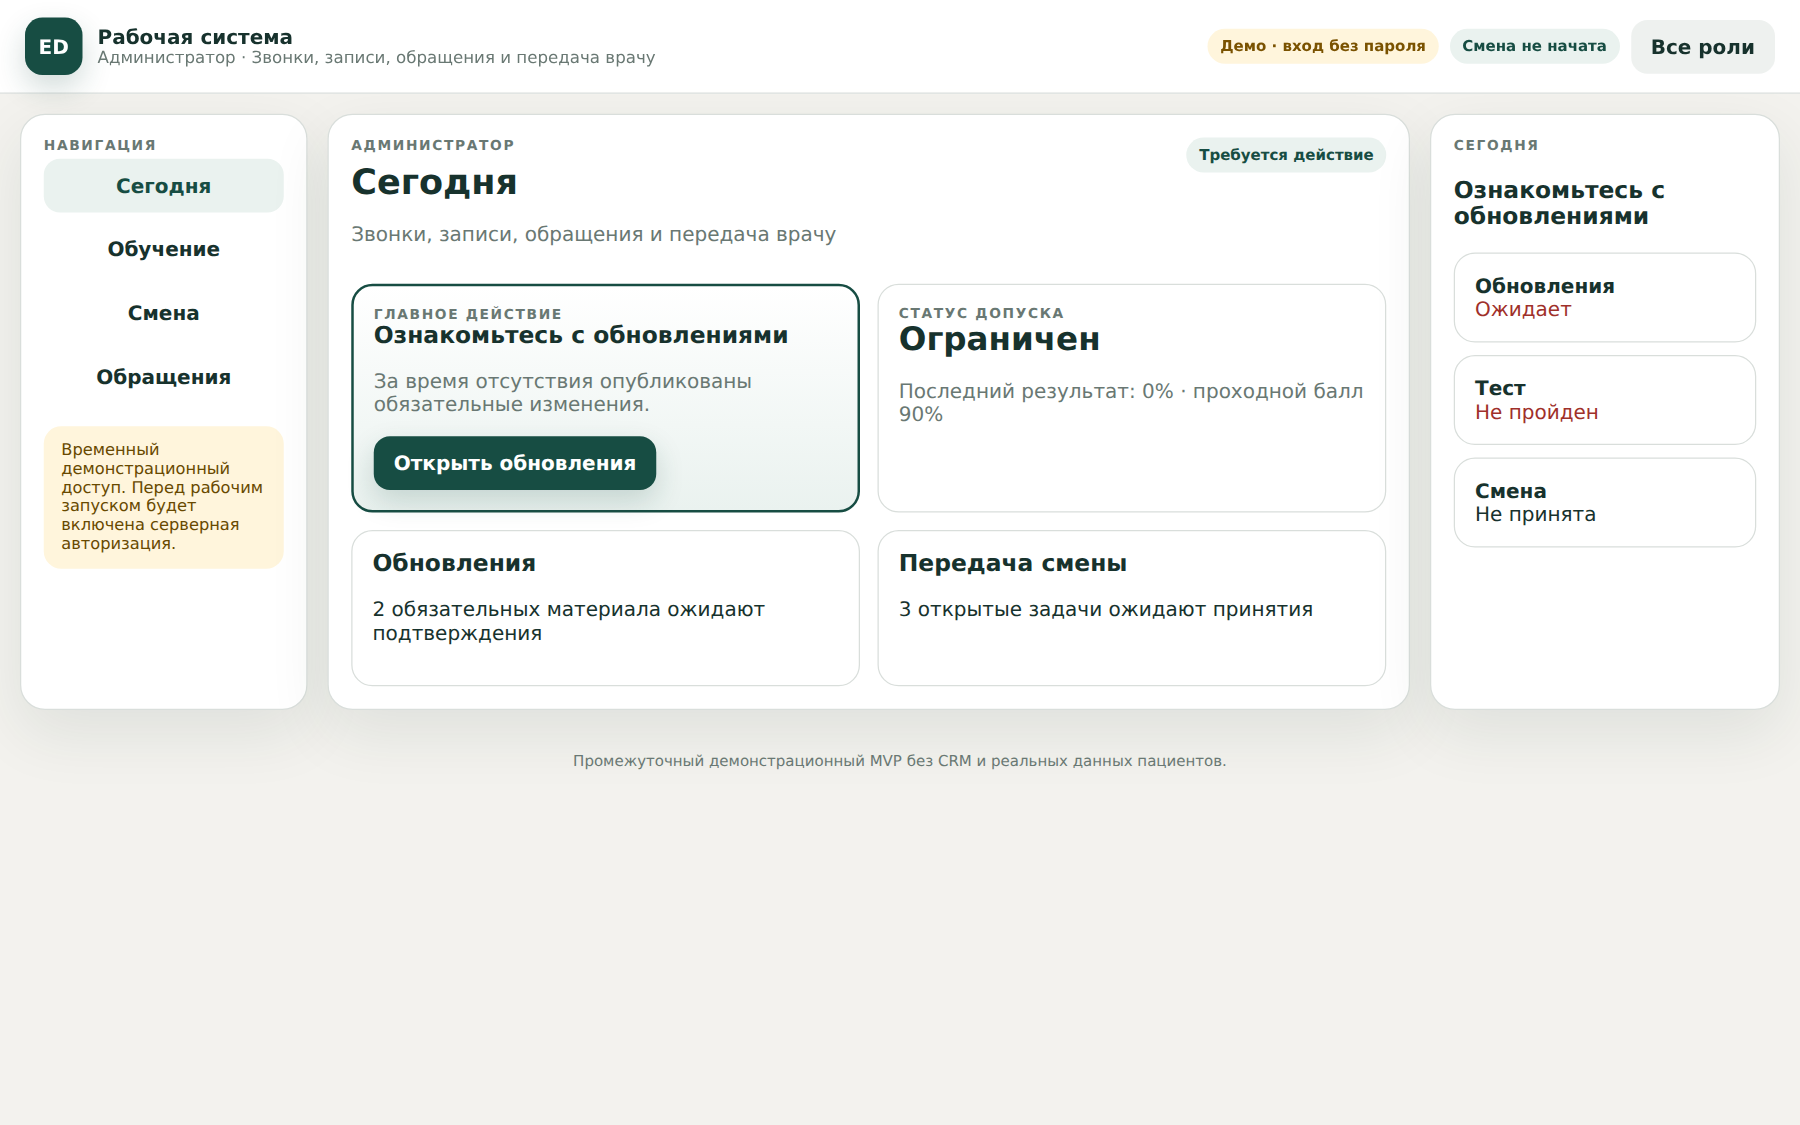
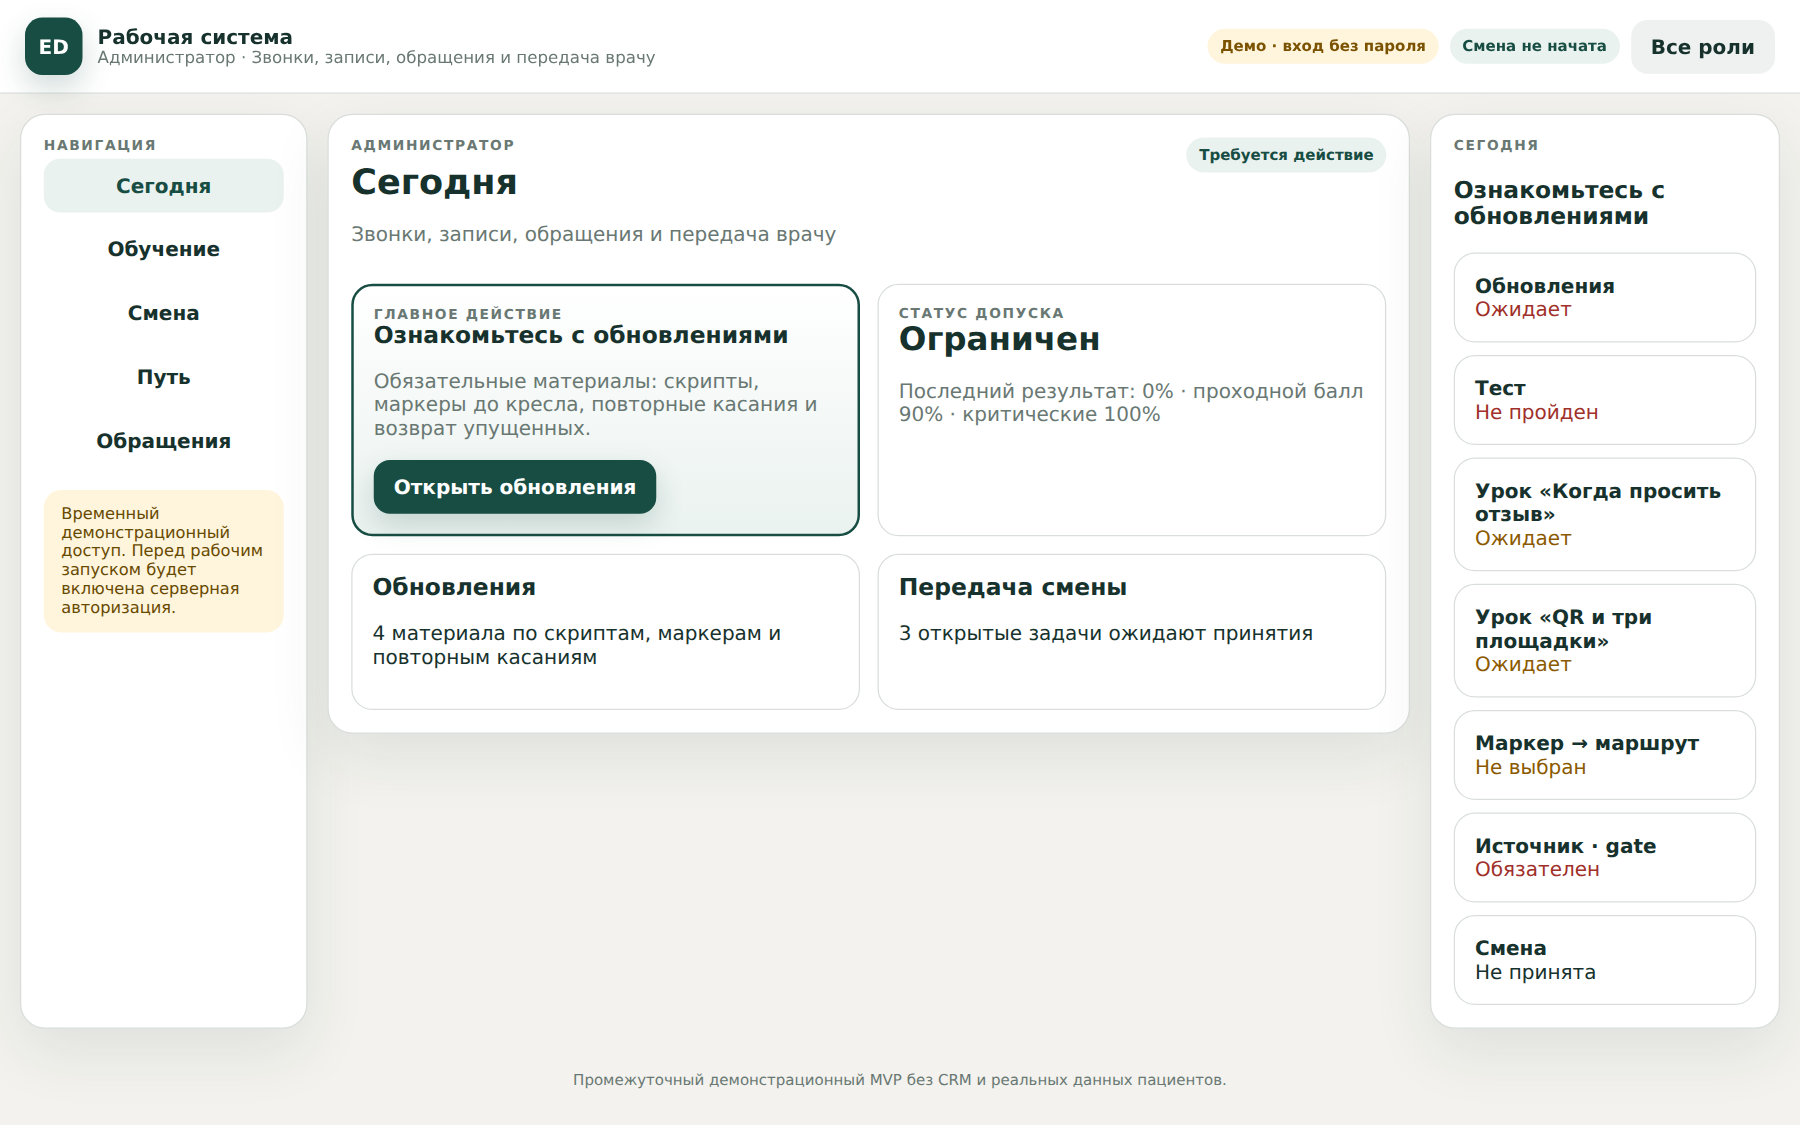
feat(raimov): IP.2 Atabek presentation — fresh shots + plan→screen table
Refresh live screenshots for closed month-1 plan points and add mapping table 1/4/5/7/8/10/11 with new path/scripts/markers captures.

diff --git a/site-raimovdental/public/assets/img/workspace/presentation/index.html b/site-raimovdental/public/assets/img/workspace/presentation/index.html
@@ -59,6 +59,14 @@
     .quote strong{display:block;margin-bottom:8px;opacity:.8;font-size:12px;letter-spacing:.12em;text-transform:uppercase}
     .footer{text-align:center;color:var(--muted);font-size:13px;margin-top:18px}
     .role-tag{display:inline-block;font-size:11px;font-weight:850;letter-spacing:.12em;text-transform:uppercase;color:var(--brand2);margin-bottom:8px}
+    .plan-table{width:100%;border-collapse:separate;border-spacing:0;font-size:14px;margin-top:18px}
+    .plan-table th,.plan-table td{padding:12px 14px;border-bottom:1px solid var(--line);text-align:left;vertical-align:top}
+    .plan-table th{font-size:11px;text-transform:uppercase;letter-spacing:.08em;color:var(--muted);background:var(--mint)}
+    .plan-table tr:last-child td{border-bottom:0}
+    .plan-table .pt{font-weight:900;color:var(--brand);white-space:nowrap}
+    .plan-table a{color:var(--brand2);font-weight:750;text-decoration:none}
+    .plan-table a:hover{text-decoration:underline}
+    .plan-table .shot-ref{color:var(--muted);font-size:12px;white-space:nowrap}
     @media(max-width:860px){
       .wrap{width:min(100% - 20px,var(--max))}.top{position:static}.pill{display:none}
       .grid2,.grid3,.grid4{grid-template-columns:1fr}.slide{border-radius:22px;padding:22px}
@@ -101,6 +109,7 @@
       <p class="ink-lede">Сначала смысл и результат, затем экраны по ролям, затем границы этапа и ссылки для самостоятельной проверки.</p>
       <nav class="toc" aria-label="Содержание">
         <a href="#result">Что это даёт клинике <span>результат</span></a>
+        <a href="#plan-map">Пункты плана месяца <span>1/4/5/7/8/10/11 → экран</span></a>
         <a href="#flow">Обязательный процесс <span>логика</span></a>
         <a href="#hub">Стартовая страница ролей <span>скриншот</span></a>
         <a href="#admin">Администратор <span>обучение · смена · обращения</span></a>
@@ -126,6 +135,67 @@
         <div class="card"><strong>Готовность к внедрению</strong><span class="muted">Логика и интерфейсы готовы к обсуждению; CRM, телефония и серверные пароли — следующий этап.</span></div>
       </div>
       <div class="note"><strong>Честно:</strong> сейчас это демонстрационный MVP. Он показывает управляемую логику и интерфейсы. Рост записей и выручки зависит от внедрения в ежедневную работу клиники, а не от факта наличия прототипа.</div>
+    </section>
+
+    <section class="slide" id="plan-map">
+      <p class="role-tag">Карта закрытия · месяц-1</p>
+      <h2>Пункты плана → экраны интерфейса</h2>
+      <p class="ink-lede">Семь пунктов месяца-1 закрыты контентом и логикой в workspace и модуле обращений. Скриншоты сняты с live-демо на raimovdental.com после деплоя content pack (август 2026).</p>
+      <table class="plan-table">
+        <thead>
+          <tr>
+            <th>Пункт</th>
+            <th>Что закрыто в UI</th>
+            <th>Экран / роль</th>
+            <th>Скрин</th>
+          </tr>
+        </thead>
+        <tbody>
+          <tr>
+            <td class="pt">1</td>
+            <td>Единый inbox обращений · SLA-статусы · карточка · чеклист аудита обработки заявок</td>
+            <td><a href="../admin/">Администратор</a> → <b>Обращения</b></td>
+            <td class="shot-ref"><a href="#admin">05-admin-work</a></td>
+          </tr>
+          <tr>
+            <td class="pt">4</td>
+            <td>Путь пациента P07–P11 · переключатель маршрутов виниры/импланты/орто · gate next action</td>
+            <td><a href="../admin/">Администратор</a> → <b>Путь</b></td>
+            <td class="shot-ref"><a href="#path">10-admin-path</a></td>
+          </tr>
+          <tr>
+            <td class="pt">5</td>
+            <td>Уроки «Когда просить отзыв» и «QR и три площадки» · чеклист после визита · контроль допуска</td>
+            <td><a href="../admin/">Администратор</a> → <b>Обучение</b> · <a href="../manager/">Управляющий</a> → команда</td>
+            <td class="shot-ref"><a href="#admin">03-admin-learn</a> · <a href="#manager">08-manager-team</a></td>
+          </tr>
+          <tr>
+            <td class="pt">7</td>
+            <td>Каталог 25 скриптов · 9 правил повторных касаний · журнал упущенных · тест допуска</td>
+            <td><a href="/render/">/render/</a> · скрипты · повторные касания</td>
+            <td class="shot-ref"><a href="#render">06-render-call</a> · <a href="#render-scripts">11-render-scripts</a></td>
+          </tr>
+          <tr>
+            <td class="pt">8</td>
+            <td>Обязательный источник в карточке · воронка по источникам · сводка владельца</td>
+            <td><a href="../manager/">Управляющий</a> · <a href="../owner/">Руководитель</a></td>
+            <td class="shot-ref"><a href="#manager">08-manager-team</a> · <a href="#owner">09-owner-summary</a></td>
+          </tr>
+          <tr>
+            <td class="pt">10</td>
+            <td>Внутренний маркетинг терапевта/гигиениста · урок · «Предложить консультацию узкого» · KPI направлений</td>
+            <td><a href="../doctor/">Врач</a> → <b>Медицинские задачи</b></td>
+            <td class="shot-ref"><a href="#doctor">07-doctor-work</a></td>
+          </tr>
+          <tr>
+            <td class="pt">11</td>
+            <td>Маркеры до кресла (MB01–MB03) · маркеры в кресле (MC01–MC03) · журнал передач · связка маркер→маршрут</td>
+            <td><a href="/render/#markers">/render/#markers</a> · <a href="../doctor/">Врач</a> · <a href="../admin/">Admin</a> → Путь</td>
+            <td class="shot-ref"><a href="#render-markers">12-render-markers</a> · <a href="#doctor">07-doctor-work</a></td>
+          </tr>
+        </tbody>
+      </table>
+      <div class="note" style="margin-top:16px"><strong>Граница:</strong> «закрыто интерфейсом» ≠ «пункт плана выполнен целиком». Аудит карт/сайта/Instagram (п.1), CRM runtime и утверждение медфраз маркеров — отдельные этапы.</div>
     </section>
 
     <section class="slide" id="flow">
@@ -193,6 +263,16 @@
       </div>
     </section>
 
+    <section class="slide" id="path">
+      <p class="role-tag">Экран 10 · пункт 4</p>
+      <h2>Путь пациента — этапы и маршруты услуг</h2>
+      <p class="ink-lede">Операционный хвост пути: от обращения до консультации и плана. Переключатель виниры / импланты / орто меняет подсказки next step; без next action контакт не закрывается.</p>
+      <figure class="shot">
+        <img src="shots/10-admin-path.png" width="1800" height="1125" alt="Администратор: экран Путь пациента с маршрутами" loading="lazy">
+        <figcaption>Живой экран: <a href="../admin/">/workspace/admin/</a> → Путь · patient-path.json</figcaption>
+      </figure>
+    </section>
+
     <section class="slide" id="render">
       <p class="role-tag">Экран 06 · модуль звонка</p>
       <h2>Пошаговый стандарт входящего обращения</h2>
@@ -206,6 +286,26 @@
         <div class="card"><strong>Быстрые сценарии</strong><span class="muted">Кровь/отёк, острая боль, пломба, брекеты, стоимость, запись.</span></div>
         <div class="card"><strong>Три правила</strong><span class="muted">Не ставим диагноз · всегда следующий шаг · фиксируем важное.</span></div>
       </div>
+    </section>
+
+    <section class="slide" id="render-scripts">
+      <p class="role-tag">Экран 11 · пункт 7</p>
+      <h2>Каталог 25 скриптов администратора</h2>
+      <p class="ink-lede">Полный каталог scripts-25.json: цель, текст, следующий шаг и «чего не говорить» для каждого сценария. Открывается из модуля обращений.</p>
+      <figure class="shot">
+        <img src="shots/11-render-scripts.png" width="1800" height="1125" alt="Модуль обращений: каталог 25 скриптов" loading="lazy">
+        <figcaption>Живой экран: <a href="/render/#scripts">/render/#scripts</a></figcaption>
+      </figure>
+    </section>
+
+    <section class="slide" id="render-markers">
+      <p class="role-tag">Экран 12 · пункт 11</p>
+      <h2>Речевые маркеры до кресла</h2>
+      <p class="ink-lede">Банк speech-markers-before.json (MB01–MB03): слушать сигнал → предложить маршрут виниры / импланты / орто. Связка с экраном «Путь» и тестом допуска.</p>
+      <figure class="shot">
+        <img src="shots/12-render-markers.png" width="1800" height="1125" alt="Модуль обращений: маркеры до кресла" loading="lazy">
+        <figcaption>Живой экран: <a href="/render/#markers">/render/#markers</a> · draft_pending_clinic до утверждения клиникой</figcaption>
+      </figure>
     </section>
 
     <section class="slide" id="doctor">

diff --git a/site-raimovdental/public/assets/img/workspace/content/gaps.md b/site-raimovdental/public/assets/img/workspace/content/gaps.md
@@ -85,6 +85,6 @@
 
 **UI progress (пункт 8):** I8.1–I8.5 ✅ · `sources.json` + gate + manager funnel + owner clinic health/sources + admin quiz «источник обязателен» · пункт 8 UI DoD закрыт по атомам
 
-**Packaging progress:** IP.1 ✅ · automated tests расширены (scripts-25 · recontact-9 · sources · speech markers · admin-feedback-sop keys)
+**Packaging progress:** IP.1 ✅ · IP.2 ✅ · presentation + plan-map table + shots 10–12
 
-**Next execute:** IP.2 — обновить презентацию Атабека (скриншоты + таблица «пункт → экран»).
+**Next execute:** IP.3 — обновить hub «Как презентовать» (сценарий 7 → 5 → 4 → 1 → 10 → 11 → 8).

diff --git a/docs/raimov/operations/expert-dental/periods/month-01/WORKSPACE_INTERFACE_ATOMIC_PLAN.md b/docs/raimov/operations/expert-dental/periods/month-01/WORKSPACE_INTERFACE_ATOMIC_PLAN.md
@@ -69,7 +69,7 @@ canon:
 | I8.4 | 8 | ✅ | clinic health + источники · `i84-owner-sources` · `/ru/valeria/month-1/plan/` |
 | I8.5 | 8 | ✅ | тест «источник обязателен» · `i85-source-quiz` · admin · critical 100% |
 | IP.1 | — | ✅ | content pack markers · scripts-25 · recontact-9 · sources · speech markers · admin-feedback-sop |
-| IP.2 | — | ⬜ | — |
+| IP.2 | — | ✅ | presentation · shots 01–12 · plan-map table 1/4/5/7/8/10/11 |
 | IP.3 | — | ⬜ | — |
 | IP.4 | — | ⬜ | — |
 | IP.5 | — | ⬜ | — |
